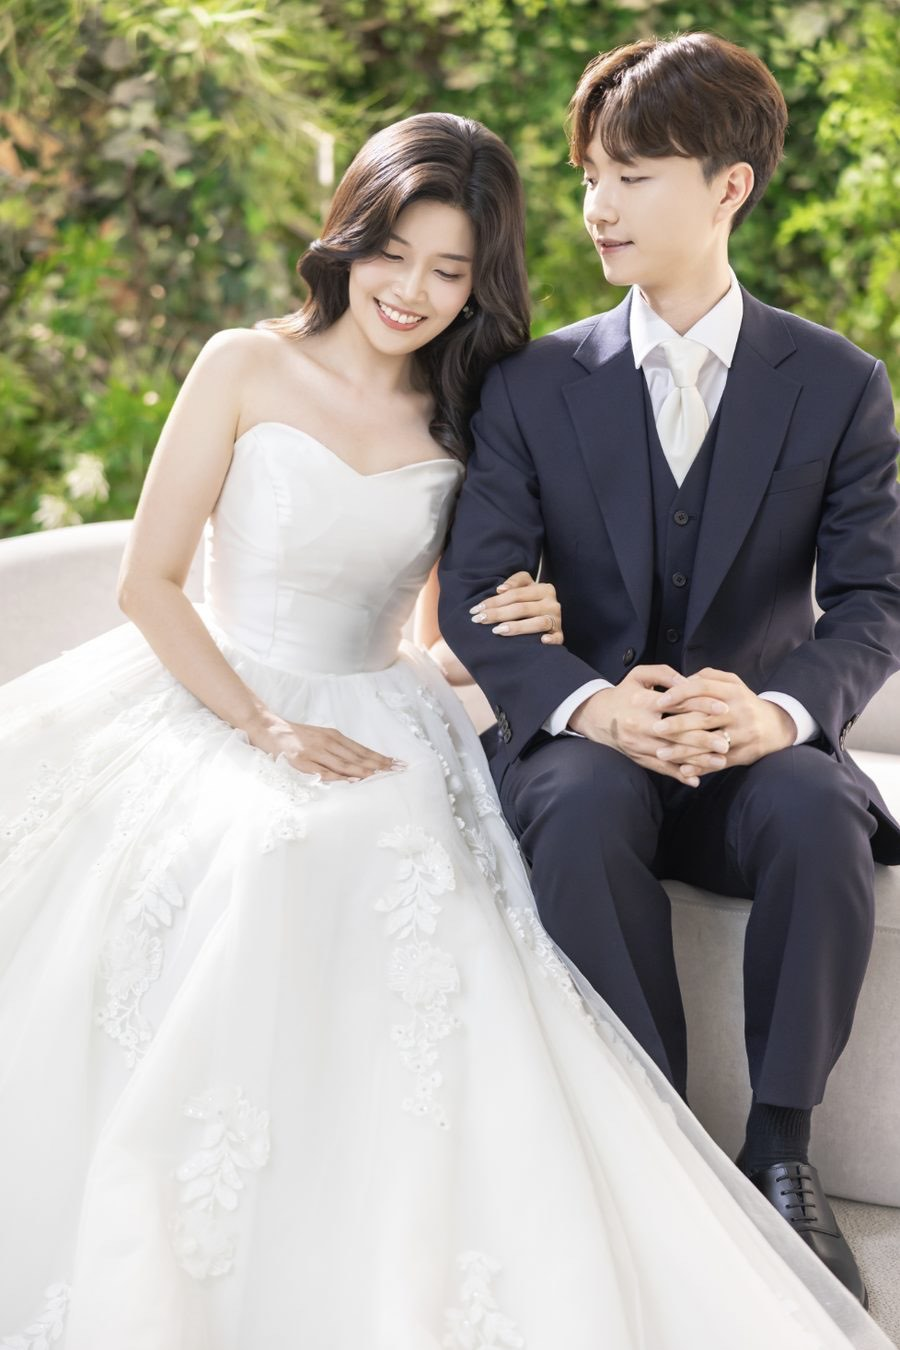
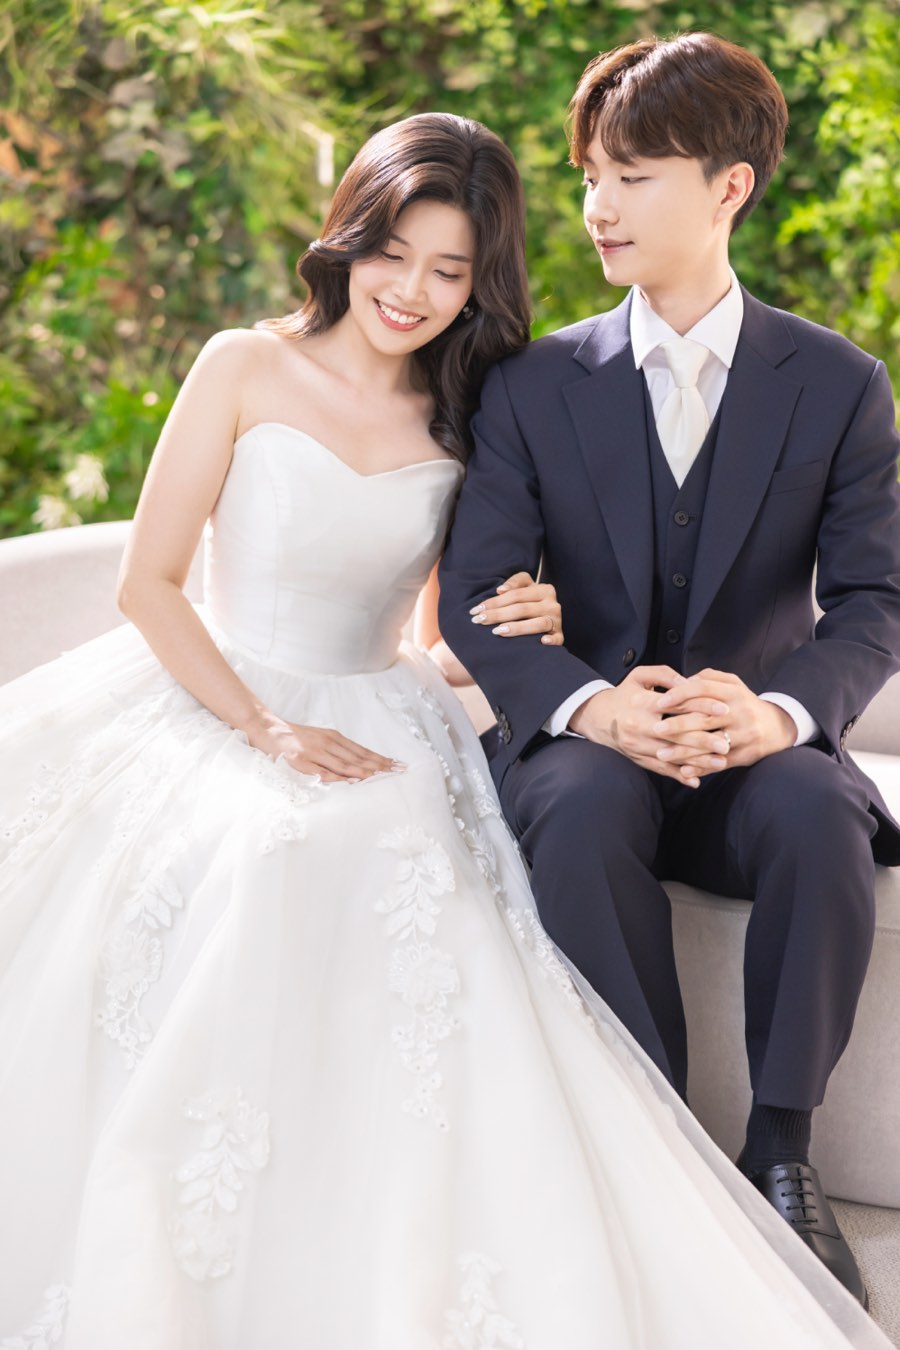
15, 16번 사진을 새 보정본으로 교체
같은 장면(가든 소파 두 사람 / 그린월 두 사람)의 더 깨끗한 보정본입니다.
998x1500, 1030x1546 -> 둘 다 900x1350 으로 잘라 나머지와 같은
2:3 (0.66667) 에 맞췄습니다.

둘 다 원본이 2:3 보다 좁아 높이만 3px / 1px 깎였고, 가로는 전폭이라
좌우 이동 없이 얼굴 기준으로 세로 위치만 잡았습니다. 16번은 인물이
화면 아래쪽에 앉은 구도라 FACE 의 세로값이 0.513 으로 낮습니다.

파일명이 그대로라 캐시 버전을 ?v=9 -> ?v=10 으로 올렸습니다.

확인: 22장 비율 전부 0.66667(+가로 1장), 썸네일<->원본 22쌍 픽셀 대조
전부 일치, 캐시 없는 프로필에서 로드 실패 0건 / 버전 누락 0건,
15번 탭 -> g15.jpg "15 / 22", 다음 -> g16.jpg "16 / 22".

Assisted-by: Claude Code (Opus 5)

diff --git a/index.html b/index.html
@@ -10,7 +10,7 @@
 <meta property="og:title" content="이수영 ♥ 이정은 결혼합니다">
 <meta property="og:description" content="2026년 12월 12일 토요일 오후 4시, 세인트메리엘 1층 메리엘홀">
 <meta property="og:url" content="https://suyoung-lee.github.io/wedding/">
-<meta property="og:image" content="https://suyoung-lee.github.io/wedding/assets/og.jpg?v=9">
+<meta property="og:image" content="https://suyoung-lee.github.io/wedding/assets/og.jpg?v=10">
 <meta name="description" content="2026년 12월 12일 토요일 오후 4시, 세인트메리엘 1층 메리엘홀">
 <meta name="theme-color" content="#fbfaf7">
 
@@ -283,7 +283,7 @@
   <!-- ══════════ 표지 ══════════ -->
   <header class="cover">
     <div class="photo noSave">
-      <img src="assets/cover.jpg?v=9" alt="신랑 이수영, 신부 이정은" draggable="false">
+      <img src="assets/cover.jpg?v=10" alt="신랑 이수영, 신부 이정은" draggable="false">
     </div>
     <div class="fade"></div>
     <div class="frame"></div>
@@ -354,28 +354,28 @@
   <section>
     <p class="label">Gallery</p>
     <div class="grid collapsed noSave" id="grid">
-      <button class="ph wide" type="button" data-full="assets/g01.jpg?v=9" aria-label="웨딩 사진 1번, 크게 보기"><img src="assets/wide.jpg?v=9" alt="" loading="lazy"></button>
-      <button class="ph" type="button" data-full="assets/g02.jpg?v=9" aria-label="웨딩 사진 2번, 크게 보기"><img src="assets/t02.jpg?v=9" alt="" loading="lazy"></button>
-      <button class="ph" type="button" data-full="assets/g03.jpg?v=9" aria-label="웨딩 사진 3번, 크게 보기"><img src="assets/t03.jpg?v=9" alt="" loading="lazy"></button>
-      <button class="ph" type="button" data-full="assets/g04.jpg?v=9" aria-label="웨딩 사진 4번, 크게 보기"><img src="assets/t04.jpg?v=9" alt="" loading="lazy"></button>
-      <button class="ph" type="button" data-full="assets/g05.jpg?v=9" aria-label="웨딩 사진 5번, 크게 보기"><img src="assets/t05.jpg?v=9" alt="" loading="lazy"></button>
-      <button class="ph" type="button" data-full="assets/g06.jpg?v=9" aria-label="웨딩 사진 6번, 크게 보기"><img src="assets/t06.jpg?v=9" alt="" loading="lazy"></button>
-      <button class="ph" type="button" data-full="assets/g07.jpg?v=9" aria-label="웨딩 사진 7번, 크게 보기"><img src="assets/t07.jpg?v=9" alt="" loading="lazy"></button>
-      <button class="ph" type="button" data-full="assets/g08.jpg?v=9" aria-label="웨딩 사진 8번, 크게 보기"><img src="assets/t08.jpg?v=9" alt="" loading="lazy"></button>
-      <button class="ph" type="button" data-full="assets/g09.jpg?v=9" aria-label="웨딩 사진 9번, 크게 보기"><img src="assets/t09.jpg?v=9" alt="" loading="lazy"></button>
-      <button class="ph" type="button" data-full="assets/g10.jpg?v=9" aria-label="웨딩 사진 10번, 크게 보기"><img src="assets/t10.jpg?v=9" alt="" loading="lazy"></button>
-      <button class="ph" type="button" data-full="assets/g11.jpg?v=9" aria-label="웨딩 사진 11번, 크게 보기"><img src="assets/t11.jpg?v=9" alt="" loading="lazy"></button>
-      <button class="ph" type="button" data-full="assets/g12.jpg?v=9" aria-label="웨딩 사진 12번, 크게 보기"><img src="assets/t12.jpg?v=9" alt="" loading="lazy"></button>
-      <button class="ph" type="button" data-full="assets/g13.jpg?v=9" aria-label="웨딩 사진 13번, 크게 보기"><img src="assets/t13.jpg?v=9" alt="" loading="lazy"></button>
-      <button class="ph" type="button" data-full="assets/g14.jpg?v=9" aria-label="웨딩 사진 14번, 크게 보기"><img src="assets/t14.jpg?v=9" alt="" loading="lazy"></button>
-      <button class="ph" type="button" data-full="assets/g15.jpg?v=9" aria-label="웨딩 사진 15번, 크게 보기"><img src="assets/t15.jpg?v=9" alt="" loading="lazy"></button>
-      <button class="ph" type="button" data-full="assets/g16.jpg?v=9" aria-label="웨딩 사진 16번, 크게 보기"><img src="assets/t16.jpg?v=9" alt="" loading="lazy"></button>
-      <button class="ph" type="button" data-full="assets/g17.jpg?v=9" aria-label="웨딩 사진 17번, 크게 보기"><img src="assets/t17.jpg?v=9" alt="" loading="lazy"></button>
-      <button class="ph" type="button" data-full="assets/g18.jpg?v=9" aria-label="웨딩 사진 18번, 크게 보기"><img src="assets/t18.jpg?v=9" alt="" loading="lazy"></button>
-      <button class="ph" type="button" data-full="assets/g19.jpg?v=9" aria-label="웨딩 사진 19번, 크게 보기"><img src="assets/t19.jpg?v=9" alt="" loading="lazy"></button>
-      <button class="ph" type="button" data-full="assets/g20.jpg?v=9" aria-label="웨딩 사진 20번, 크게 보기"><img src="assets/t20.jpg?v=9" alt="" loading="lazy"></button>
-      <button class="ph" type="button" data-full="assets/g21.jpg?v=9" aria-label="웨딩 사진 21번, 크게 보기"><img src="assets/t21.jpg?v=9" alt="" loading="lazy"></button>
-      <button class="ph" type="button" data-full="assets/g22.jpg?v=9" aria-label="웨딩 사진 22번, 크게 보기"><img src="assets/t22.jpg?v=9" alt="" loading="lazy"></button>
+      <button class="ph wide" type="button" data-full="assets/g01.jpg?v=10" aria-label="웨딩 사진 1번, 크게 보기"><img src="assets/wide.jpg?v=10" alt="" loading="lazy"></button>
+      <button class="ph" type="button" data-full="assets/g02.jpg?v=10" aria-label="웨딩 사진 2번, 크게 보기"><img src="assets/t02.jpg?v=10" alt="" loading="lazy"></button>
+      <button class="ph" type="button" data-full="assets/g03.jpg?v=10" aria-label="웨딩 사진 3번, 크게 보기"><img src="assets/t03.jpg?v=10" alt="" loading="lazy"></button>
+      <button class="ph" type="button" data-full="assets/g04.jpg?v=10" aria-label="웨딩 사진 4번, 크게 보기"><img src="assets/t04.jpg?v=10" alt="" loading="lazy"></button>
+      <button class="ph" type="button" data-full="assets/g05.jpg?v=10" aria-label="웨딩 사진 5번, 크게 보기"><img src="assets/t05.jpg?v=10" alt="" loading="lazy"></button>
+      <button class="ph" type="button" data-full="assets/g06.jpg?v=10" aria-label="웨딩 사진 6번, 크게 보기"><img src="assets/t06.jpg?v=10" alt="" loading="lazy"></button>
+      <button class="ph" type="button" data-full="assets/g07.jpg?v=10" aria-label="웨딩 사진 7번, 크게 보기"><img src="assets/t07.jpg?v=10" alt="" loading="lazy"></button>
+      <button class="ph" type="button" data-full="assets/g08.jpg?v=10" aria-label="웨딩 사진 8번, 크게 보기"><img src="assets/t08.jpg?v=10" alt="" loading="lazy"></button>
+      <button class="ph" type="button" data-full="assets/g09.jpg?v=10" aria-label="웨딩 사진 9번, 크게 보기"><img src="assets/t09.jpg?v=10" alt="" loading="lazy"></button>
+      <button class="ph" type="button" data-full="assets/g10.jpg?v=10" aria-label="웨딩 사진 10번, 크게 보기"><img src="assets/t10.jpg?v=10" alt="" loading="lazy"></button>
+      <button class="ph" type="button" data-full="assets/g11.jpg?v=10" aria-label="웨딩 사진 11번, 크게 보기"><img src="assets/t11.jpg?v=10" alt="" loading="lazy"></button>
+      <button class="ph" type="button" data-full="assets/g12.jpg?v=10" aria-label="웨딩 사진 12번, 크게 보기"><img src="assets/t12.jpg?v=10" alt="" loading="lazy"></button>
+      <button class="ph" type="button" data-full="assets/g13.jpg?v=10" aria-label="웨딩 사진 13번, 크게 보기"><img src="assets/t13.jpg?v=10" alt="" loading="lazy"></button>
+      <button class="ph" type="button" data-full="assets/g14.jpg?v=10" aria-label="웨딩 사진 14번, 크게 보기"><img src="assets/t14.jpg?v=10" alt="" loading="lazy"></button>
+      <button class="ph" type="button" data-full="assets/g15.jpg?v=10" aria-label="웨딩 사진 15번, 크게 보기"><img src="assets/t15.jpg?v=10" alt="" loading="lazy"></button>
+      <button class="ph" type="button" data-full="assets/g16.jpg?v=10" aria-label="웨딩 사진 16번, 크게 보기"><img src="assets/t16.jpg?v=10" alt="" loading="lazy"></button>
+      <button class="ph" type="button" data-full="assets/g17.jpg?v=10" aria-label="웨딩 사진 17번, 크게 보기"><img src="assets/t17.jpg?v=10" alt="" loading="lazy"></button>
+      <button class="ph" type="button" data-full="assets/g18.jpg?v=10" aria-label="웨딩 사진 18번, 크게 보기"><img src="assets/t18.jpg?v=10" alt="" loading="lazy"></button>
+      <button class="ph" type="button" data-full="assets/g19.jpg?v=10" aria-label="웨딩 사진 19번, 크게 보기"><img src="assets/t19.jpg?v=10" alt="" loading="lazy"></button>
+      <button class="ph" type="button" data-full="assets/g20.jpg?v=10" aria-label="웨딩 사진 20번, 크게 보기"><img src="assets/t20.jpg?v=10" alt="" loading="lazy"></button>
+      <button class="ph" type="button" data-full="assets/g21.jpg?v=10" aria-label="웨딩 사진 21번, 크게 보기"><img src="assets/t21.jpg?v=10" alt="" loading="lazy"></button>
+      <button class="ph" type="button" data-full="assets/g22.jpg?v=10" aria-label="웨딩 사진 22번, 크게 보기"><img src="assets/t22.jpg?v=10" alt="" loading="lazy"></button>
     </div>
     <button class="more" type="button" id="more">사진 더보기<span class="chev" aria-hidden="true"></span></button>
   </section>
@@ -388,8 +388,8 @@
     <h2>세인트메리엘</h2>
     <p class="sub">1층 메리엘홀</p>
 
-    <a class="mapWrap noSave" href="assets/map-full.png?v=9" target="_blank" rel="noopener">
-      <img src="assets/map.png?v=9" alt="세인트메리엘 약도" loading="lazy" draggable="false">
+    <a class="mapWrap noSave" href="assets/map-full.png?v=10" target="_blank" rel="noopener">
+      <img src="assets/map.png?v=10" alt="세인트메리엘 약도" loading="lazy" draggable="false">
     </a>
     <p class="mapHint">약도를 누르면 크게 볼 수 있습니다</p>
 

diff --git a/build_assets.py b/build_assets.py
@@ -18,8 +18,8 @@ OUT = "assets"
 # index.html 의 이미지 URL 뒤 ?v=N 캐시 버전. 파일명을 그대로 두고 사진 내용만
 # 바꾸면 이미 청첩장을 열어본 브라우저가 캐시된 옛 사진을 계속 보여줍니다
 # (썸네일만 바뀌고 뷰어는 옛 사진이 뜨는 식). 사진을 갈아끼울 때마다 올리세요.
-#   sed -i '' 's/?v=[0-9]*/?v=10/g' index.html
-ASSET_V = 9
+#   sed -i '' 's/?v=[0-9]*/?v=11/g' index.html
+ASSET_V = 10
 os.makedirs(OUT, exist_ok=True)
 
 A = lambda n: os.path.join(SRC, f"KakaoTalk_20260909_203020487{n}.png")
@@ -56,8 +56,8 @@ ORDER = [
     #    아래 to_portrait 로는 좌우를 못 옮깁니다. 신랑 오른쪽 빈 공간을
     #    줄이려고 그 손질을 파일에 박아 뒀습니다.
     (N("I_가든소파두사람"), "가든 - 두 사람"),
-    (A("_01"), "가든 - 두 사람"),
-    (A("_06"), "가든 - 잎사귀 배경"),
+    (N("J_가든소파두사람_시선아래"), "가든 - 두 사람"),
+    (N("K_그린월두사람"),          "가든 - 잎사귀 배경"),
     (N("G_가든소파신부_정면"),     "가든 - 소파 신부"),
     (N("H_가든소파신부_시선아래"), "가든 - 소파 신부"),
     (A("_08"), "가든 - 신부"),
@@ -89,8 +89,8 @@ FACE = [
     (0.520, 0.319),   # 12 옐로 두 사람
     (0.423, 0.176),   # 13 옐로 신랑
     (0.582, 0.177),   # 14 가든 두 사람 (오른쪽 100px 덜어낸 원본 기준)
-    (0.569, 0.187),   # 15 가든 두 사람
-    (0.514, 0.513),   # 16 가든 잎사귀
+    (0.568, 0.187),   # 15 가든 두 사람
+    (0.516, 0.513),   # 16 가든 잎사귀 (인물이 아래쪽이라 세로 중심이 낮음)
     (0.504, 0.263),   # 17 가든 소파 신부 (정면)
     (0.505, 0.274),   # 18 가든 소파 신부 (시선 아래)
     (0.559, 0.192),   # 19 가든 신부
